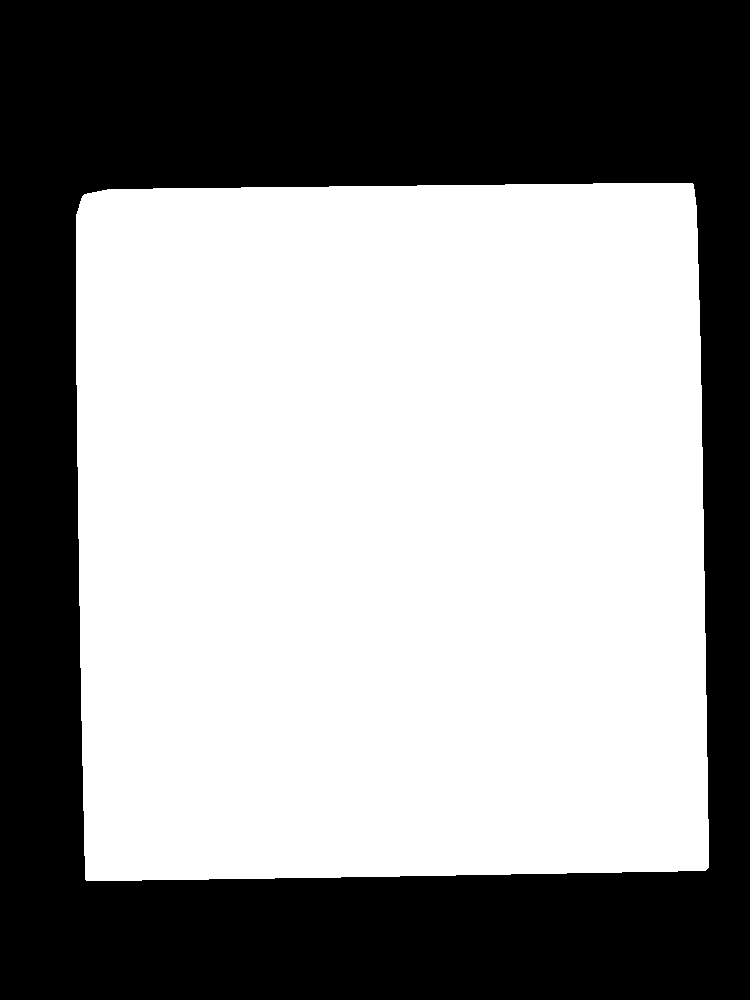
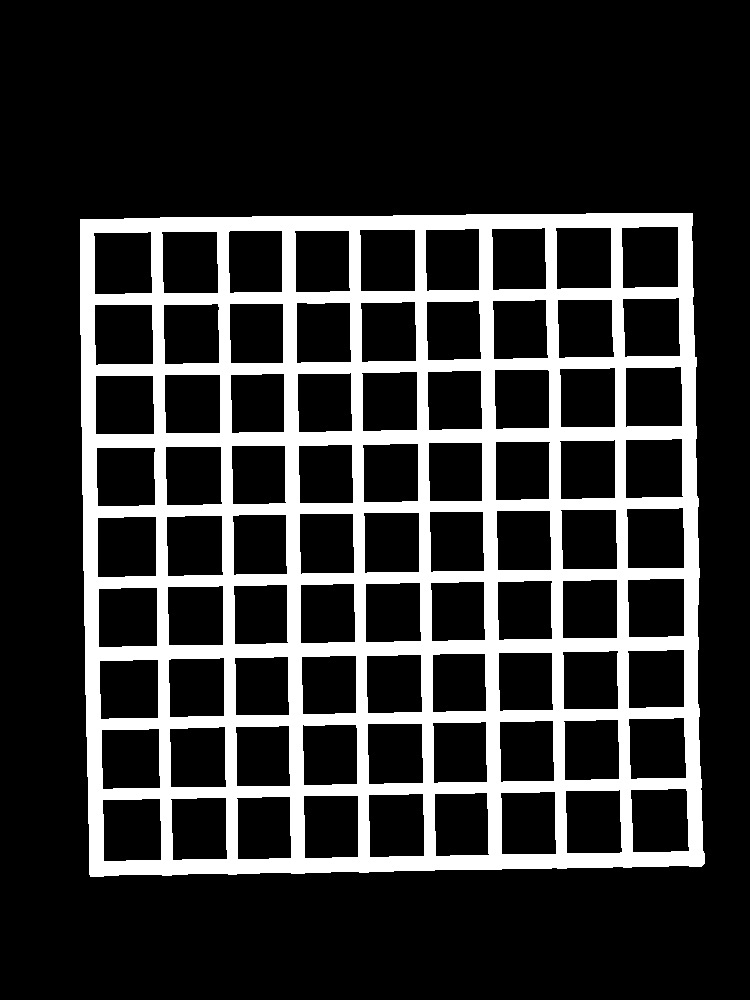
Use component-only region with smaller margin to exclude labels near the grid

diff --git a/sudoku_scan.py b/sudoku_scan.py
@@ -31,7 +31,7 @@ adaptive_c = 7
 # Kernel length = image side / line_kernel_div. Longer kernels remove digits
 # but break rotated / slanted lines, so this goes into the parameter study.
 line_kernel_div = 80
-region_margin_ratio = 0.01   # region is grown by this fraction of the short side
+region_margin_ratio = 0.006  # region is grown by this fraction of the short side
 
 
 # Harris parameters (tuned for MAX_SIDE)
@@ -62,17 +62,16 @@ def draw_points(gray, points, color=(0, 0, 255), radius=6):
 
 def make_region_mask(grid_mask, margin_ratio=region_margin_ratio):
     """
-    Puzzle region from the line mask. Gaps are closed with a small kernel and
-    only the LARGEST connected component (the grid) is kept, so printed labels
-    such as "9x9" / "zor" and neighbouring tables, which are separate
-    components, stay outside. The convex hull of that component is filled and
-    grown a little. This is only a region; the corner coordinates still come
-    from Harris candidates.
+    Region of the puzzle's own line structure. Tiny gaps are closed and only
+    the LARGEST connected component of the line mask (the grid) is kept; its
+    pixels (not its convex hull) are grown by a small margin. Printed labels
+    such as "9x9" / "zor" and neighbouring tables are separate components, so
+    candidates on them fall outside the region. This is only a region: the
+    corner coordinates still come from Harris candidates.
     """
     h, w = grid_mask.shape[:2]
-    k = max(3, int(round(min(h, w) * 0.01)) | 1)
     closed = cv2.morphologyEx(
-        grid_mask, cv2.MORPH_CLOSE, np.ones((k, k), np.uint8)
+        grid_mask, cv2.MORPH_CLOSE, np.ones((3, 3), np.uint8)
     )
 
     n, labels, stats, _ = cv2.connectedComponentsWithStats(
@@ -84,9 +83,7 @@ def make_region_mask(grid_mask, margin_ratio=region_margin_ratio):
         return region
 
     biggest = 1 + int(np.argmax(stats[1:, cv2.CC_STAT_AREA]))
-    ys, xs = np.nonzero(labels == biggest)
-    hull = cv2.convexHull(np.column_stack([xs, ys]).astype(np.int32))
-    cv2.fillConvexPoly(region, hull, 255)
+    region[labels == biggest] = 255
 
     m = max(3, int(round(min(h, w) * margin_ratio)))
     return cv2.dilate(region, np.ones((2 * m + 1, 2 * m + 1), np.uint8))
